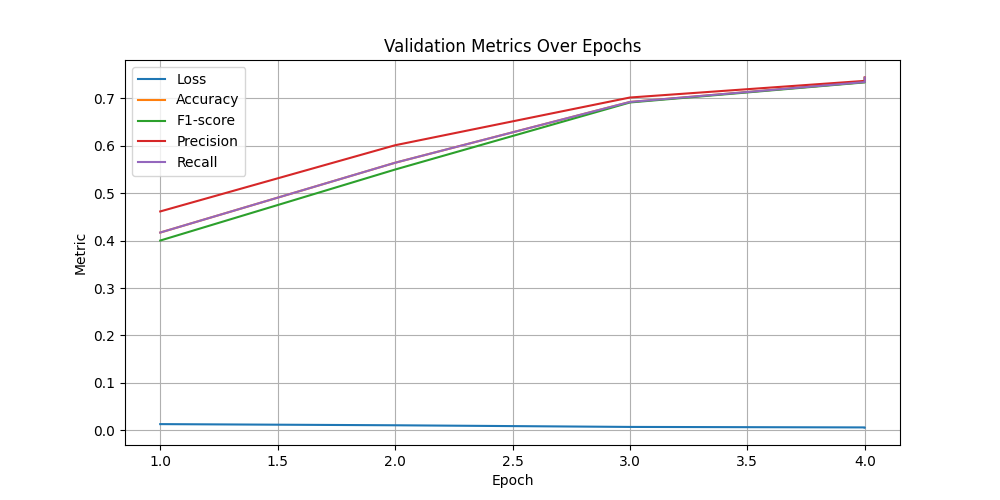
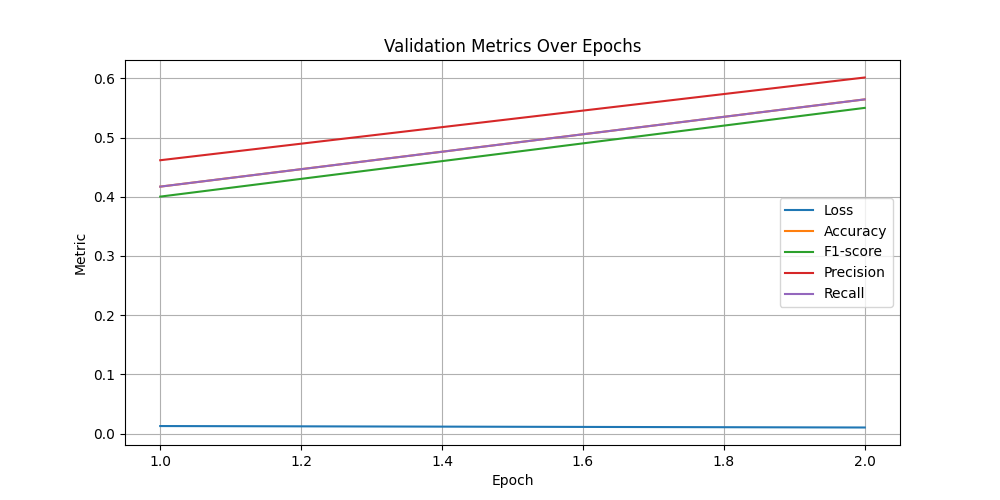
implemented SGD

diff --git a/train.py b/train.py
@@ -54,17 +54,9 @@ def train(model, optimizer, scheduler, dataset, args, log, use_sam=False):
                 log(model, loss.cpu(), correct.cpu(), scheduler.lr(), y_true=targets, y_pred=torch.argmax(predictions, 1))
                 scheduler(epoch)
 
-        # Calcola la media per epoca
-        avg_loss = epoch_loss / total_samples
-        avg_accuracy = epoch_correct / total_samples * 100
-        print(f"Epoch {epoch}: Average Loss = {avg_loss:.4f}, Average Accuracy = {avg_accuracy:.2f}%")
 
         model.eval()
         log.eval(len_dataset=len(dataset["test"]))
-        
-        epoch_loss = 0.0
-        epoch_correct = 0
-        total_samples = 0
 
         with torch.no_grad():
             for inputs, targets in dataset["test"]:
@@ -121,11 +113,11 @@ if __name__ == "__main__":
         raise ValueError(f"Unsupported depth {args.depth}")
 
     print(">>> Training with SGD")
-    #model_sgd = model_fn(num_classes=10).to(device)
-    #optimizer_sgd = torch.optim.SGD(model_sgd.parameters(), lr=args.learning_rate, momentum=args.momentum, weight_decay=args.weight_decay)
-    #scheduler_sgd = StepLR(optimizer_sgd, args.learning_rate, args.epochs)
-    #log_sgd = Log(log_each=10, log_file="training_sgd.csv", model_name="model_sgd.pth")
-    #train(model_sgd, optimizer_sgd, scheduler_sgd, dataset, args, log_sgd, use_sam=False)
+    model_sgd = model_fn(num_classes=10).to(device)
+    optimizer_sgd = torch.optim.SGD(model_sgd.parameters(), lr=args.learning_rate, momentum=args.momentum, weight_decay=args.weight_decay)
+    scheduler_sgd = StepLR(optimizer_sgd, args.learning_rate, args.epochs)
+    log_sgd = Log(log_each=10, log_file="training_sgd.csv", model_name="model_sgd.pth")
+    train(model_sgd, optimizer_sgd, scheduler_sgd, dataset, args, log_sgd, use_sam=False)
 
     print("\n>>> Training with SAM")
     model_sam = model_fn(num_classes=10).to(device)
@@ -135,5 +127,5 @@ if __name__ == "__main__":
     log_sam = Log(log_each=10, log_file="training_sam.csv", model_name="model_sam.pth")
     train(model_sam, optimizer_sam, scheduler_sam, dataset, args, log_sam, use_sam=True)
 
-    #print(f"\nFinal Accuracy SGD:  {log_sgd.best_accuracy * 100:.2f}%")
+    print(f"\nFinal Accuracy SGD:  {log_sgd.best_accuracy * 100:.2f}%")
     print(f"Final Accuracy SAM:  {log_sam.best_accuracy * 100:.2f}%")

diff --git a/scripts/SGD.py b/scripts/SGD.py
@@ -1,9 +1,9 @@
 import torch
 
-class SimpleSGD(torch.optim.Optimizer):
-    def __init__(self, params, lr=0.01):
-        defaults = dict(lr=lr)
-        super(SimpleSGD, self).__init__(params, defaults)
+class ImprovedSGD(torch.optim.Optimizer):
+    def __init__(self, params, lr=0.01, momentum=0.8, weight_decay=5e-4):
+        defaults = dict(lr=lr, momentum=momentum, weight_decay=weight_decay)
+        super(ImprovedSGD, self).__init__(params, defaults)
 
     @torch.no_grad()
     def step(self, closure=None):
@@ -12,4 +12,14 @@ class SimpleSGD(torch.optim.Optimizer):
                 if p.grad is None:
                     continue
                 d_p = p.grad.data
+                if group['weight_decay'] != 0:
+                    d_p.add_(group['weight_decay'], p.data)
+                if group['momentum'] != 0:
+                    param_state = self.state[p]
+                    if 'momentum_buffer' not in param_state:
+                        buf = param_state['momentum_buffer'] = torch.clone(d_p).detach()
+                    else:
+                        buf = param_state['momentum_buffer']
+                        buf.mul_(group['momentum']).add_(d_p)
+                    d_p = buf
                 p.data.add_(-group['lr'], d_p)
